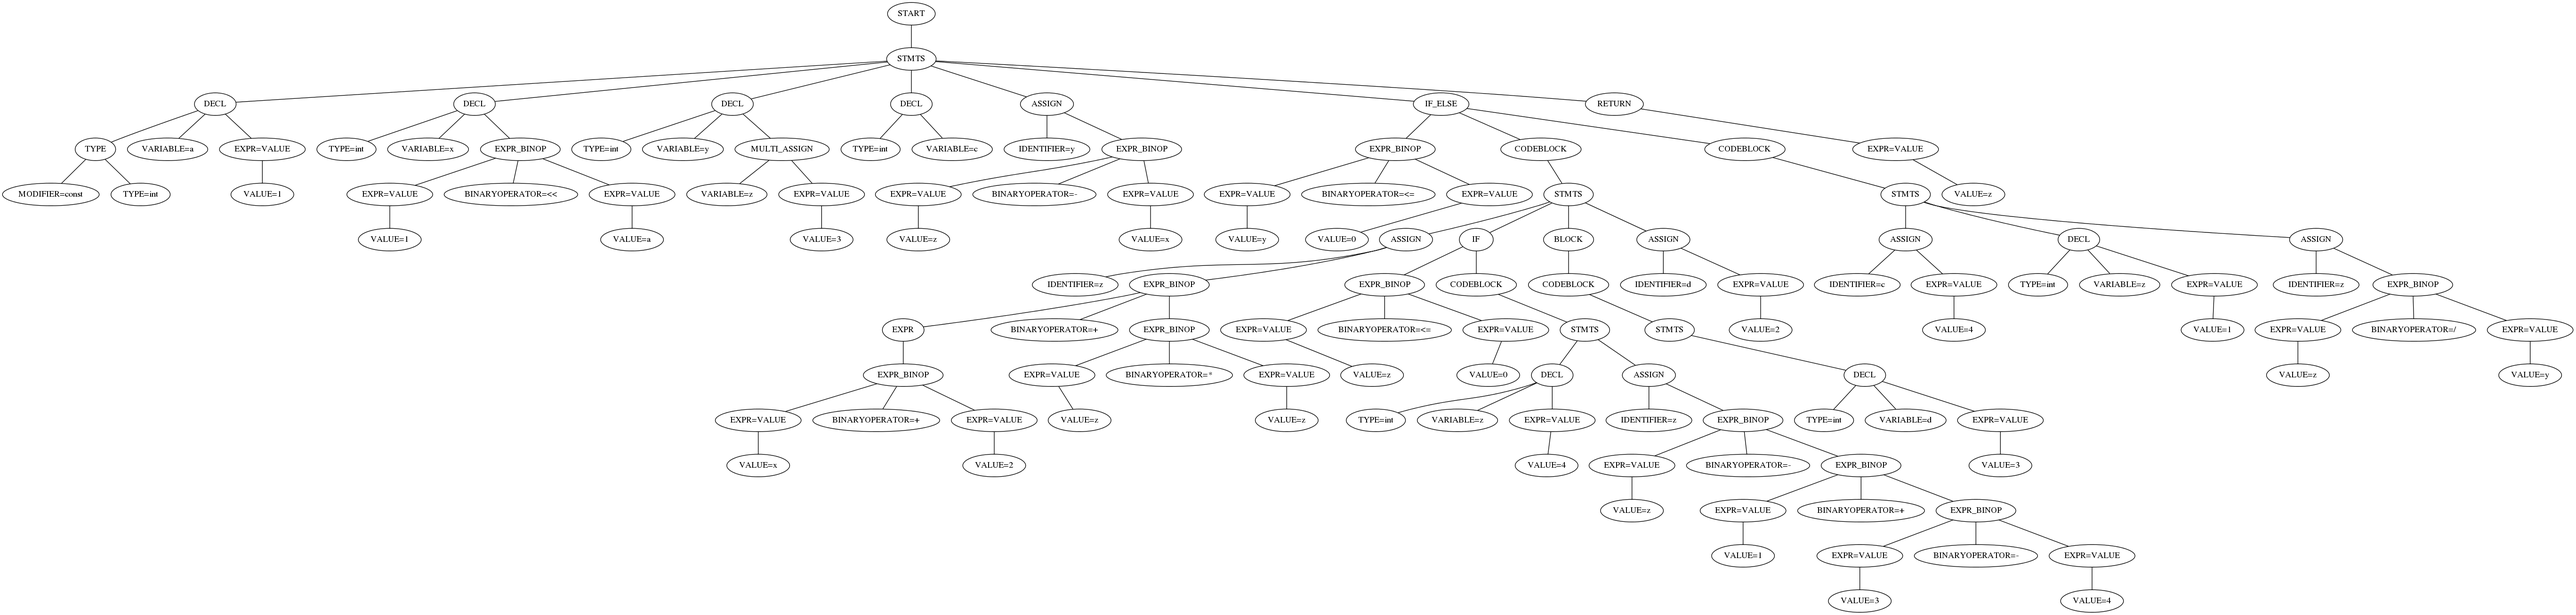
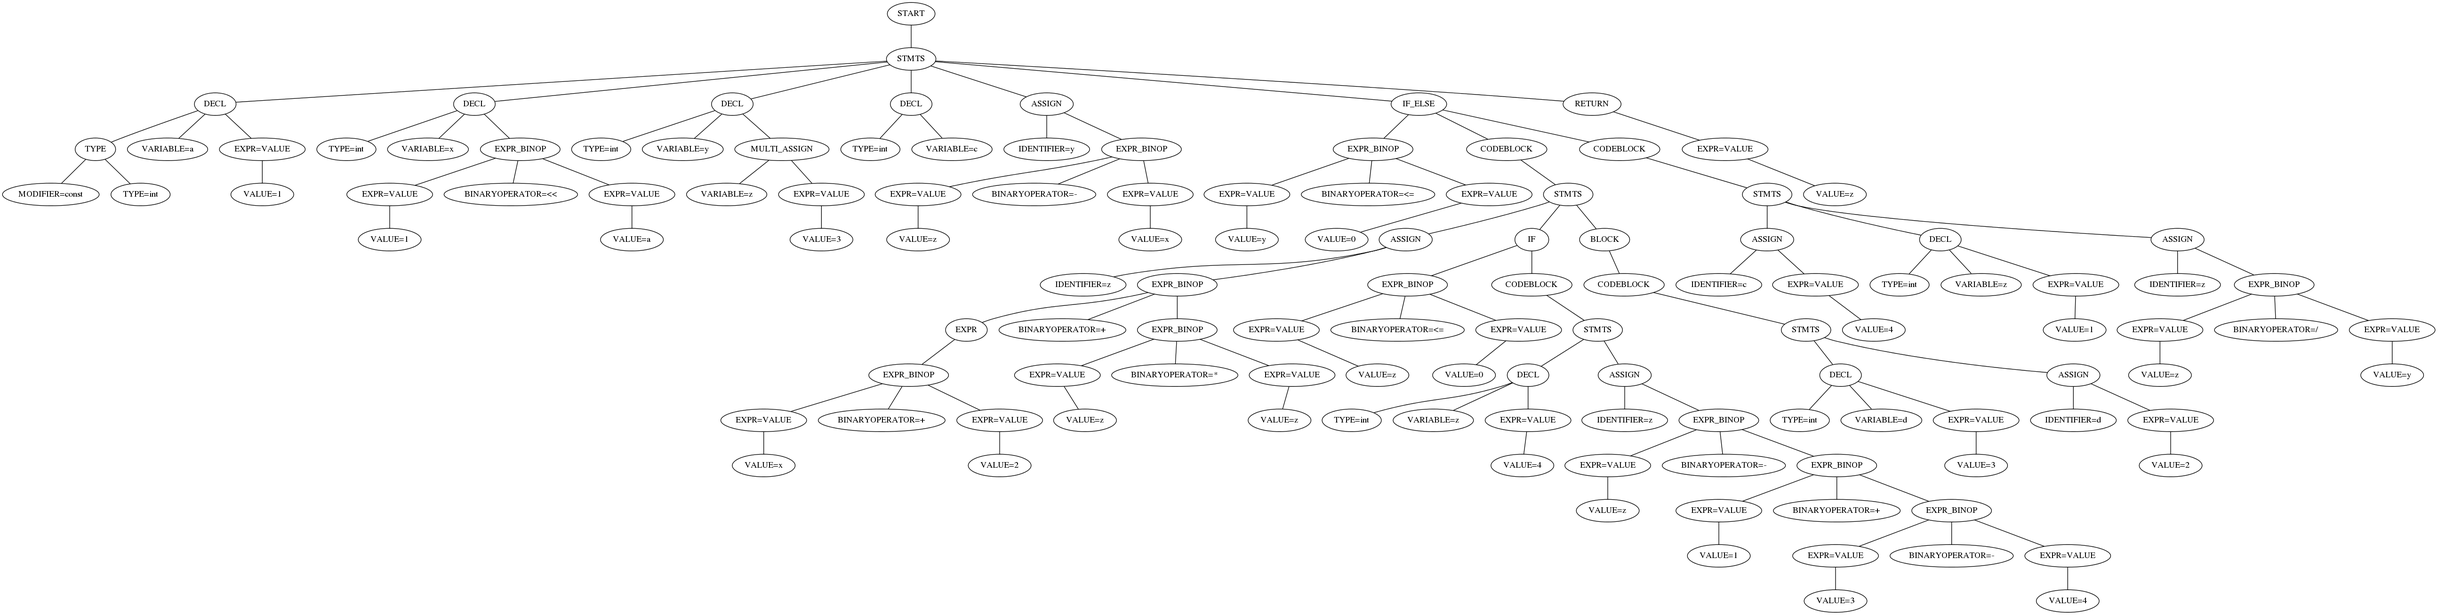
Fix recursion order bug with arithmetic transformer, and additionally add a visitor that decorates the arithmetic parts with Strahler number

diff --git a/ToTheAST/visitor.py b/ToTheAST/visitor.py
@@ -100,18 +100,18 @@ class ArithmeticTransformer(Visitor):
     def visit(self, node):
         # print("Visiting node: %s" % node.showSelf())
         if node.name == 'EXPR_BINOP':
+            super().visit(node)
+
             node.name = node.children[1].name
             node.data = node.children[1].data
-
             node.children.pop(1)
-            super().visit(node)
 
         elif node.name == 'EXPR':
+            super().visit(node)
+
             node.name = node.children[0].name
             node.data = node.children[0].data
-
-            node.children = []
-            super().visit(node)
+            node.children = node.children[0].children
 
         else:
             super().visit(node)
@@ -217,3 +217,57 @@ class IntermediateRepresentation(Visitor):
 
                 return instructionList
 
+class PrintWithStrahlerNumber(Visitor):
+    def __init__(self, file=stdout):
+        self.idcount = 0
+        self.output = file
+
+    def prettyChildren(self, node):
+        return "%s" % (id(node))
+
+    def visit(self, node):
+        # print("%s\t%s" % (id(node), node.name if node.kind is not None else node.data), file=self.output)
+        print("%s\t%s%s%s"
+            % (
+                  id(node)
+                , node.name
+                , ( "" if node.name is node.data else ("="+str(node.data)))
+                , ( "" if node.name not in ["BINARYOPERATOR", "VALUE", "IDENTIFIER"] or node.regCount is None else "(%i)" % node.regCount )
+            ), file=self.output)
+
+        if len(node.children) > 0:
+            print(id(node), end=" ", file=self.output)
+            for child in node.children:
+                print(id(child), end=" ", file=self.output)
+            print(file=self.output)
+
+        self.idcount+=1
+        # print(type(super()))
+
+        super().visit(node)
+
+
+# Sethi Ullman register needs algorithm
+class RegisterNeedsVisitor(Visitor):
+
+    # Travels to all the arithmetic syntax parts, and decorates them with
+    #   register needs
+    def visit(self, node):
+        if node.name == 'BINARYOPERATOR':
+            if len(node.children) is 0:
+                node.regCount = 0
+            else:
+                print("%s -> %s(%s) : %s(%s)" % (node.name, node.children[0].name, node.children[0].regCount, node.children[1].name, node.children[1].regCount))
+                self.visit(node.children[0])
+                self.visit(node.children[1])
+                print("%s -> %s(%s) : %s(%s)" % (node.name, node.children[0].name, node.children[0].regCount, node.children[1].name, node.children[1].regCount))
+
+                if node.children[0].regCount == node.children[1].regCount:
+                    node.regCount = node.children[1].regCount + 1
+                else:
+                    node.regCount = max(node.children[0].regCount, node.children[1].regCount)
+        elif (node.name == 'IDENTIFIER' or node.name == 'VALUE') and node.parent.name in ['BINARYOPERATOR', 'EXPR', 'EXPR_BINOP']:
+            node.regCount = 1
+        else:
+            # Recurse down to all the binaryoperator nodes
+            super().visit(node)

diff --git a/ToTheAST/scanner.py b/ToTheAST/scanner.py
@@ -304,7 +304,11 @@ else:
     astfile = open("OUTPUT.a", "w")
     # NOTE: The arithmetic transformer modifies the AST IN-PLACE
     ArithmeticTransformer().visit(root)
-    PrintVisitor(file=astfile).visit(root)
+    # PrintVisitor(file=astfile).visit(root)
+
+    # Test out the Sethi Ullman algorithm to show register requirements
+    RegisterNeedsVisitor().visit(root)
+    PrintWithStrahlerNumber(file=astfile).visit(root)
     astfile.close()
 
 

diff --git a/ToTheAST/node.py b/ToTheAST/node.py
@@ -22,6 +22,9 @@ class Node:
         # Until changed, assume that all nodes are in global scope
         self.scopestack = [0]
 
+        # Populated by Sethi Ullman visitor
+        self.regCount = None
+
     def addChild(self, newChild):
         if newChild is not None:
             self.children.append(newChild)
